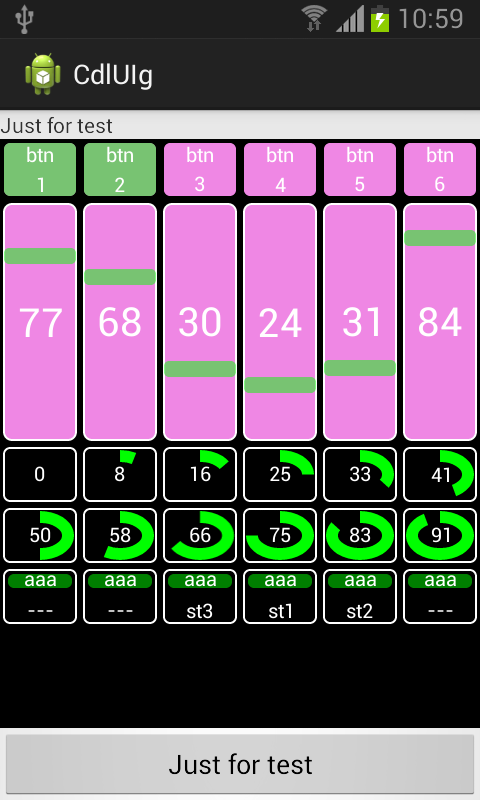
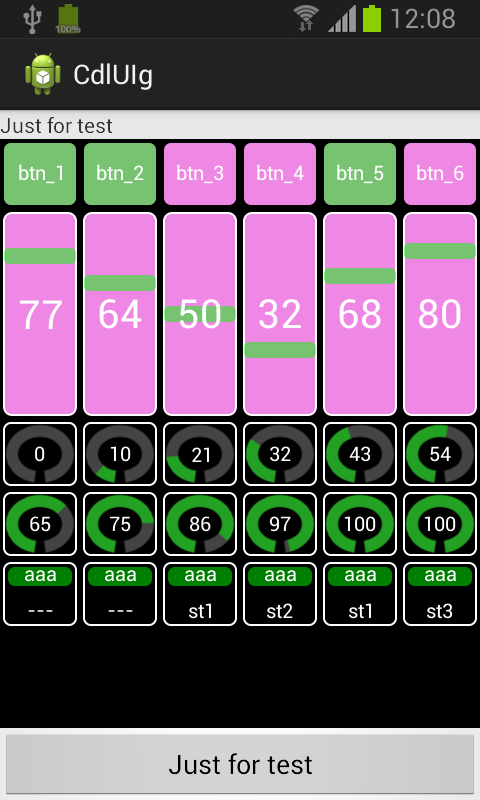
new knobs

diff --git a/CdlUIg/src/com/cadeli/ui/controls/CdlKnob.java b/CdlUIg/src/com/cadeli/ui/controls/CdlKnob.java
@@ -14,7 +14,7 @@ distributed under the License is distributed on an "AS IS" BASIS,
 WITHOUT WARRANTIES OR CONDITIONS OF ANY KIND, either express or implied.
 See the License for the specific language governing permissions and
 limitations under the License.
-*/
+ */
 
 package com.cadeli.ui.controls;
 
@@ -25,10 +25,9 @@ import android.view.MotionEvent;
 import com.cadeli.ui.CdlBaseButton;
 import com.cadeli.ui.CdlPalette;
 
-
 public class CdlKnob extends CdlBaseButton {
 	private CdlValue valueControler;
-	
+
 	public CdlKnob(String label) {
 		super();
 		setLabel(label);
@@ -38,21 +37,21 @@ public class CdlKnob extends CdlBaseButton {
 	public void draw(Canvas canvas) {
 		if (isVisible()) {
 			super.draw(canvas);
-			int wl=12;
-			int	dispVal = (int) (valueControler.getValue() * 100);
+			int wl = 12;
+			int dispVal = (int) (valueControler.getValue() * 100);
 			String text = "" + dispVal;
-			//XmlUtil.myLog(TAG," drawFader " + frameCursorRect);
+			// XmlUtil.myLog(TAG," drawFader " + frameCursorRect);
 			RectF oval2 = new RectF(rect.left + wl, rect.top + wl, rect.right - wl, rect.bottom - wl);
-			canvas.drawArc(oval2, -90f, 360f, false, CdlPalette.getBlackPaintLarge());
-			float alpha = getValueControler().computeAlphaFromVal(dispVal, 360, 0);
-			canvas.drawArc(oval2, -90f, alpha, false, CdlPalette.getHilightPaintLarge());
-			drawCenterText(canvas, text, CdlPalette.getTxtPaint(w,h));
+			canvas.drawArc(oval2, 100f, 340f, false, CdlPalette.getBlackPaintLarge());
+			float alpha = getValueControler().computeAlphaFromVal(dispVal, 340, 0);
+			canvas.drawArc(oval2, 100f, alpha, false, CdlPalette.getHilightPaintLarge());
+			drawCenterText(canvas, text, CdlPalette.getTxtPaint(w, h));
 		}
 	}
-	
+
 	public void scroll(MotionEvent e1, MotionEvent e2, float distanceX, float distanceY) {
 		super.scroll(e1, e2, distanceX, distanceY);
-		valueControler.setValueFromDistance(distanceY, rect.height());
+		valueControler.setValueFromDistance(distanceY, rect.height(),2);
 	}
 
 	public CdlValue getValueControler() {

diff --git a/CdlUIg/src/com/cadeli/uiDemo/FakeAudioMixerActivity.java b/CdlUIg/src/com/cadeli/uiDemo/FakeAudioMixerActivity.java
@@ -56,7 +56,7 @@ public class FakeAudioMixerActivity extends Activity {
 	private void createStrips(CdlView mCdlView, OnTapUpCdlListener onTapUpCdlListener, OnLongPressCdlListener onLongPressCdlListener) {
 		// create push button
 		for (int i = 0; i < 6; i++) {
-			CdlOnOffButton mCdlButton = new CdlOnOffButton("btn " + (i + 1));
+			CdlOnOffButton mCdlButton = new CdlOnOffButton("btn_" + (i + 1));
 			mCdlButton.setBorder(false);
 			mCdlView.addCdlBaseButton(mCdlButton);
 			mCdlButton.setBackgroundColor(4);
@@ -64,14 +64,14 @@ public class FakeAudioMixerActivity extends Activity {
 		// create fader button
 		for (int i = 0; i < 6; i++) {
 			CdlFader mCdlButton = new CdlFader("fader " + (i + 1));
-			mCdlButton.setGridSize(1, 4 );
+			mCdlButton.setGridSize(1, 3 );
 			mCdlView.addCdlBaseButton(mCdlButton);
 			mCdlButton.setBackgroundColor(4);
 		}		
 		// create knob button
 		for (int i = 0; i < 12; i++) {
 			CdlKnob mCdlButton = new CdlKnob("knob " + (i + 1));
-			mCdlButton.getValueControler().setValues(0, 1, (float)(i*1)/12.0f);
+			mCdlButton.getValueControler().setValues(0, 1, (float)(i*1.3)/12.0f);
 			mCdlView.addCdlBaseButton(mCdlButton);
 			mCdlButton.setBackgroundColor(5);
 		}

diff --git a/CdlUIg/src/com/cadeli/ui/CdlPalette.java b/CdlUIg/src/com/cadeli/ui/CdlPalette.java
@@ -124,6 +124,7 @@ public class CdlPalette {
 			hilightPaintLarge.setStyle(Style.STROKE);
 			hilightPaintLarge.setStrokeWidth(12);
 			hilightPaintLarge.setColor(hilightColor);
+			hilightPaintLarge.setAlpha(127);
 			hilightPaintLarge.setAntiAlias(true);
 			hilightPaintLarge.setDither(true);
 		}
@@ -143,7 +144,7 @@ public class CdlPalette {
 	public static Paint getBlackPaintLarge() {
 		if (blackPaintLarge == null) {
 			blackPaintLarge = new Paint();
-			blackPaintLarge.setColor(Color.BLACK);
+			blackPaintLarge.setColor(Color.DKGRAY);
 			blackPaintLarge.setStyle(Style.STROKE);
 			blackPaintLarge.setStrokeWidth(12);
 			blackPaintLarge.setAntiAlias(true);

diff --git a/CdlUIg/src/com/cadeli/ui/controls/CdlValue.java b/CdlUIg/src/com/cadeli/ui/controls/CdlValue.java
@@ -54,8 +54,13 @@ public class CdlValue {
 
 	// fader scroll
 	public float setValueFromDistance(float distance, int deviceHeigth) {
+		return setValueFromDistance(distance, deviceHeigth,1);
+	}
+	
+	// fader scroll
+	public float setValueFromDistance(float distance, int deviceHeigth,float coef) {
 		float incr = 0;
-		incr = (float) ((float) (distance) / (float) deviceHeigth);
+		incr = (float) ((float) (distance) / (float) (deviceHeigth*coef));
 		float newVal = value + incr;
 		//CdlUtils.cdlLog(TAG, "setValueFromDistance " + distance + "/" + deviceHeigth + " incr=" + incr + " newVal=" + newVal + " val=" + value);
 		setValue(newVal);
